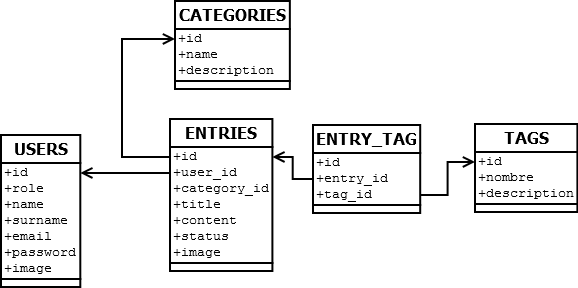
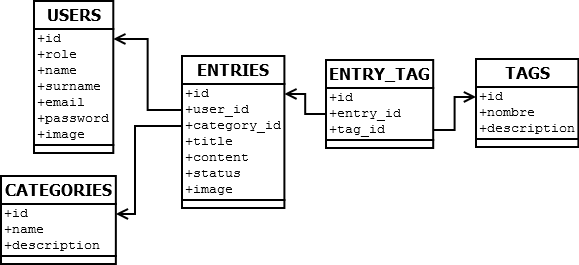
Estem definint relacions entre entitats Many to One i començo a fer One to Many. Vaig pel vídeo 61

Changed region(s): [[0.0, 0.0, 1.0, 1.0]]

diff --git a/src/BlogBundle/Controller/DefaultController.php b/src/BlogBundle/Controller/DefaultController.php
@@ -8,6 +8,29 @@ class DefaultController extends Controller
 {
     public function indexAction()
     {
+        $em = $this->getDoctrine()->getEntityManager();
+        //Instancia un objecte del gestor d'entitats.
+        $entry_repo = $em->getRepository("BlogBundle:Entry");
+        //Instancia un objecte del repositori de la classe entry.
+
+        $entries =$entry_repo->findAll();
+        //Sembla l'equivalent a un SELECT *
+        //Obté una matriu d'objectes.
+
+        foreach($entries as $entry) {
+            echo "Títol: ".$entry->getTitle()."<br/>";
+            echo "Categoria:".$entry->getCategory()->getName()."<br>";
+            echo "Autor:".$entry->getUser()->getName()."<hr>";
+
+            $tags =$entry->getEntryTag();
+            foreach ($tags as $tag) {
+                echo $tag->getTag()->getName().", ";
+            }
+
+        }
+        die();
+
+
         return $this->render('BlogBundle:Default:index.html.twig');
     }
 }

diff --git a/src/BlogBundle/Entity/Entry.php b/src/BlogBundle/Entity/Entry.php
@@ -43,6 +43,15 @@ class Entry
     private $user;
 
 
+
+
+  protected $entryTag;
+
+  public function __construct() {
+    $this->entryTag = new \Doctrine\Common\Collections\ArrayCollection();
+    //Això el que fa es que sigui un array d'objectes quan ens torni les tags
+  }
+
     /**
      * Get id
      *
@@ -196,4 +205,25 @@ class Entry
     {
         return $this->user;
     }
+
+    public function addEntryTag(\BlogBundle\Entity\Tag $tag){
+      $this->entryTag[] = $tag;
+      return $this;
+      //Aquest mètode no el farem servir però serveix per afegir tags a
+      //l'entrada, cada cop que s'invoqui en aquest mètode passant-li un paràmetre
+    }
+
+    public function getEntryTag() {
+        return $this->entryTag;
+    }
+
+
+
+
+
+
+
+
+
+
 }
